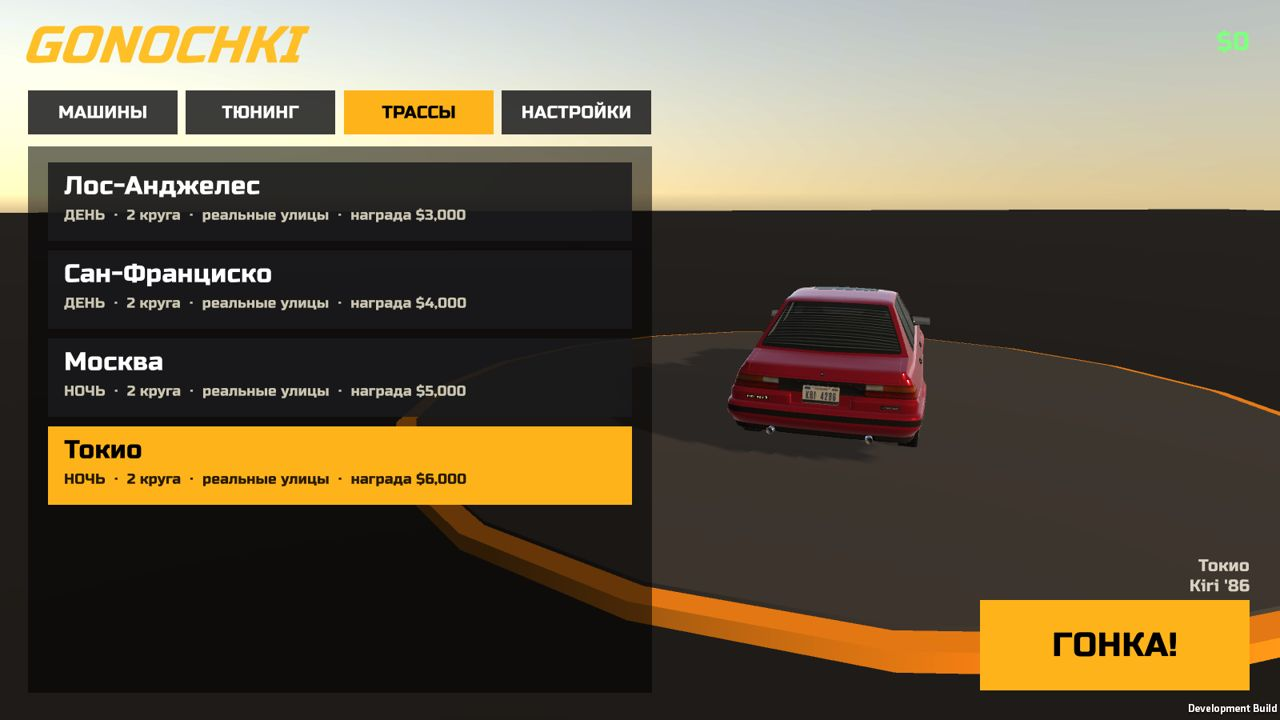
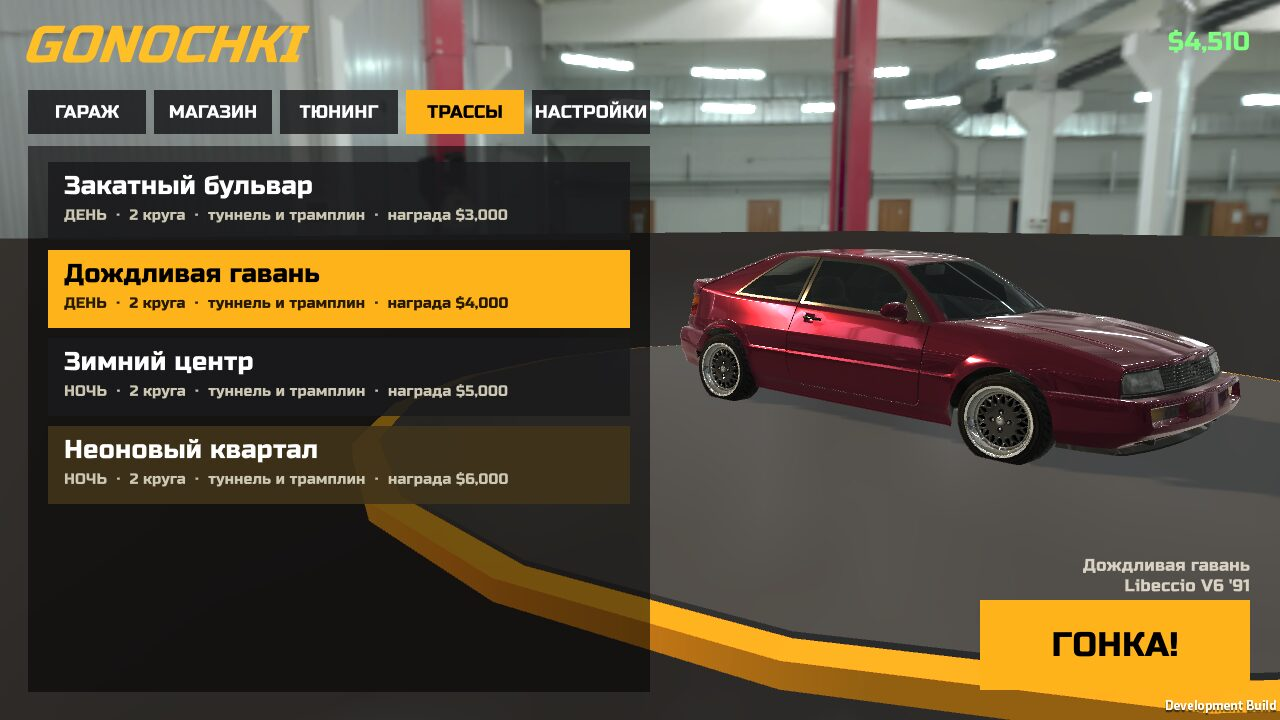
Gonochki: новые трассы — туннели, трамплины, живой город; свежие скриншоты

diff --git a/gonochki/index.html b/gonochki/index.html
@@ -53,10 +53,10 @@
   <div class="wrap">
     <span class="tag">Android · оффлайн · бесплатно · бета</span>
     <h1>GONOCHKI</h1>
-    <p class="lead">Уличные гонки по настоящим улицам Лос-Анджелеса, Сан-Франциско, Москвы и Токио. 16 машин, тюнинг, полицейские погони, дождь и снег, ночные заезды и холмы с трамплинами. Интернет не нужен.</p>
+    <p class="lead">Уличные гонки по извилистым городским трассам: широкий асфальт, крутые повороты, холмы, туннели и трамплины. 16 машин, тюнинг, полицейские погони, дождь и снег, ночные заезды. Интернет не нужен.</p>
     <div class="cta">
       <a id="dl" class="btn" href="https://github.com/Fladver/fladver.github.io/releases/download/gonochki/Gonochki.apk">Скачать APK</a>
-      <span class="meta" id="dlmeta">Бета от 26.10.2026 · 123 МБ · Android 8.0+</span>
+      <span class="meta" id="dlmeta">Бета от 26.10.2026 · 125 МБ · Android 8.0+</span>
     </div>
   </div>
 </header>
@@ -65,6 +65,14 @@
   <div class="wrap">
     <h2>Что нового</h2>
     <div class="news">
+      <div class="when">Обновление от 26.10.2026 — новые трассы</div>
+      <ul>
+        <li><b>Четыре новые трассы.</b> Закатный бульвар с пальмами, Дождливая гавань, Зимний центр ночью в снегу и Неоновый квартал под ночным дождём. Каждая — извилистое кольцо около 3 км: связки поворотов, S-образные участки, крутые и плавные дуги, без длинных скучных прямых и без разворотов.</li>
+        <li><b>Широкая дорога.</b> Четыре полосы с разметкой, бордюры, тротуары с фонарями и перила вдоль всей трассы. В крутых поворотах бордюры красно-белые, а на перилах жёлтые стрелки.</li>
+        <li><b>Холмы и наклон в поворотах.</b> Трасса то поднимается, то спускается. На прямых дорога ровная, а в крутых поворотах наклонена внутрь, поэтому их удобно проходить.</li>
+        <li><b>Туннель и трамплин.</b> На каждой трассе туннель под зелёным холмом и трамплин, с которого машина пролетает несколько десятков метров.</li>
+        <li><b>Живой город.</b> Сотни домов, газоны, аллеи, парки, пальмы и ели, светофоры у пешеходных переходов.</li>
+      </ul>
       <div class="when">Обновление от 26.10.2026</div>
       <ul>
         <li><b>Фары и стоп-сигналы.</b> У всех машин горят фары и задние огни, при торможении стопы вспыхивают ярче. Ночью и в дождь перед машиной светлое пятно от фар.</li>
@@ -83,12 +91,12 @@
   <div class="wrap">
     <h2>Скриншоты</h2>
     <div class="shots" id="shots">
-      <img src="img/la.jpg" alt="Лос-Анджелес, даунтаун" loading="lazy">
-      <img src="img/sf.jpg" alt="Сан-Франциско: дождь" loading="lazy">
-      <img src="img/msk.jpg" alt="Москва: снег ночью" loading="lazy">
-      <img src="img/tokyo.jpg" alt="Токио: ночной дождь" loading="lazy">
-      <img src="img/chase.jpg" alt="Погоня в Лос-Анджелесе" loading="lazy">
-      <img src="img/tokyo2.jpg" alt="Токио: мокрый асфальт" loading="lazy">
+      <img src="img/sunset.jpg" alt="Закатный бульвар" loading="lazy">
+      <img src="img/portal.jpg" alt="Въезд в туннель под холмом" loading="lazy">
+      <img src="img/tunnel.jpg" alt="В туннеле" loading="lazy">
+      <img src="img/jump.jpg" alt="Прыжок с трамплина" loading="lazy">
+      <img src="img/winter.jpg" alt="Зимний центр ночью" loading="lazy">
+      <img src="img/neon.jpg" alt="Неоновый квартал: ночной дождь" loading="lazy">
       <img src="img/garage.jpg" alt="Гараж: 16 машин" loading="lazy">
       <img src="img/tuning.jpg" alt="Тюнинг" loading="lazy">
       <img src="img/tracks.jpg" alt="Выбор трассы" loading="lazy">
@@ -100,13 +108,13 @@
   <div class="wrap">
     <h2>Что внутри</h2>
     <div class="feats">
-      <div class="card"><b>Настоящие города</b><p>Улицы, кварталы и рельеф взяты из OpenStreetMap: даунтаун Лос-Анджелеса, холмы Сан-Франциско, Тверская в Москве и Сибуя в Токио. Каждая трасса — замкнутый круг по улицам, огороженный отбойником.</p></div>
-      <div class="card"><b>Погода</b><p>В Сан-Франциско и Токио льёт дождь, на асфальте лужи, в Москве идёт снег и у бордюров лежит снег, в Лос-Анджелесе в воздухе висит пыль. Из-под колёс летят брызги, в заносе валит дым, об отбойник сыплются искры.</p></div>
-      <div class="card"><b>День и ночь</b><p>Два города днём, два ночью: горят окна и фонари, у всех машин горят фары, а мигалки копов освещают улицу.</p></div>
+      <div class="card"><b>Городские трассы</b><p>Четыре извилистых кольца по 3 км через город: широкий асфальт, бордюры, тротуары, холмы, наклон в крутых поворотах, туннель и трамплин. Вся трасса огорожена.</p></div>
+      <div class="card"><b>Погода</b><p>В гавани и неоновом квартале льёт дождь, на асфальте лужи, в зимнем центре идёт снег, на закатном бульваре в воздухе висит пыль. Из-под колёс летят брызги, в заносе валит дым, об отбойник сыплются искры.</p></div>
+      <div class="card"><b>День и ночь</b><p>Две трассы днём, две ночью: горят окна и фонари, у всех машин горят фары, а мигалки копов освещают улицу.</p></div>
       <div class="card"><b>16 машин</b><p>От гольф-кара и старой Kiri до суперкаров Slayer EXP и Saba V12. У каждой своя скорость, разгон и управляемость.</p></div>
       <div class="card"><b>Тюнинг</b><p>Двигатель, турбина, шины и нитро, у каждой детали 3 уровня. Каждое улучшение меняет физику машины.</p></div>
       <div class="card"><b>Погони</b><p>Пронёсся мимо патруля на скорости, и начинается погоня. Уровень розыска растёт до 5, с третьего подключаются перехватчики. Простоишь вплотную к копу 3,5 секунды, и будет BUSTED. Оторвёшься на 6 секунд, и погоня окончена.</p></div>
-      <div class="card"><b>Аркадное управление</b><p>Аркадный режим: машина слушается руля на любой скорости, а длинный занос включается только ручником. Можно переключить на «реализм» в настройках. Подвеска, крены, трамплины на холмах. Фонари, баки и конусы можно сбить, но столб так просто не снесёшь.</p></div>
+      <div class="card"><b>Аркадное управление</b><p>Аркадный режим: машина слушается руля на любой скорости, а длинный занос включается только ручником. Можно переключить на «реализм» в настройках. Подвеска, крены, трамплины. Фонари, баки и конусы можно сбить, но столб так просто не снесёшь.</p></div>
       <div class="card"><b>Деньги</b><p>Награда за место в гонке и за время в погоне. Тратишь её на новые машины и тюнинг.</p></div>
       <div class="card"><b>Любой телефон</b><p>Три уровня графики: на «низко» без теней и эффектов, на «высоко» с bloom, цветокоррекцией и сглаживанием.</p></div>
     </div>
